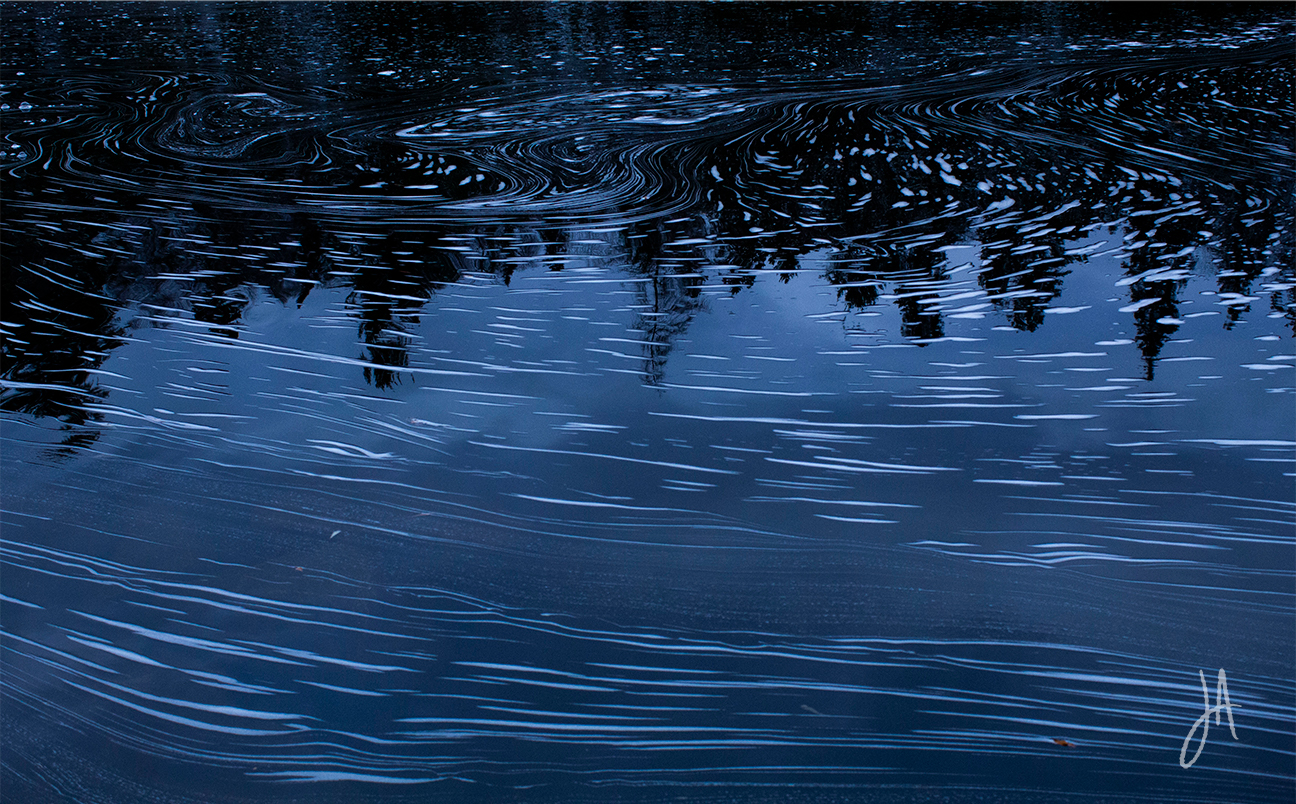
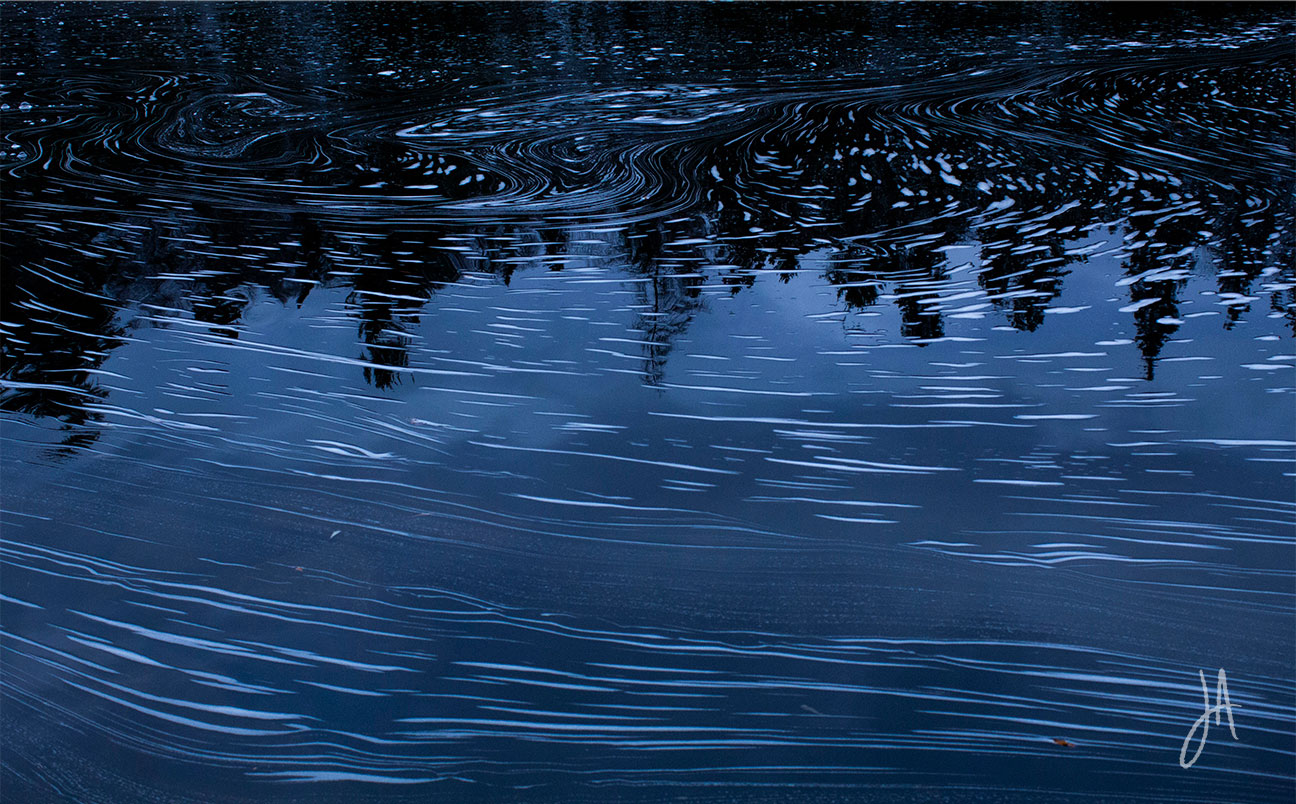
imgOptimization
optimized a bunch of imgs ... still a little slow - look into this

diff --git a/index.html b/index.html
@@ -600,7 +600,7 @@
                                     <!-- change the img..-->
                                     <div>
                                         <img class="img-fluid d-block mx-auto"
-                                            src="assets/img/portfolio/altheda/altheda.png"
+                                            src="assets/img/portfolio/altheda/altheda.jpg"
                                             alt="altheda resort landing page" />
                                     </div>
                                     <div>
@@ -684,7 +684,7 @@
                                     </div>
                                     <div>
                                         <img class="img-fluid d-block mx-auto"
-                                            src="assets/img/portfolio/altheda/moodboard.png" alt="moodboard" />
+                                            src="assets/img/portfolio/altheda/moodboard.jpg" alt="moodboard" />
                                     </div>
                                     <div>
                                         <ul class="list-inline">
@@ -775,7 +775,7 @@
                                     </div>
                                     <div>
                                         <img class="img-fluid d-block mx-auto"
-                                            src="assets/img/portfolio/killerScents/candle-mockup.png"
+                                            src="assets/img/portfolio/killerScents/candle-mockup.jpg"
                                             alt="candle on table" />
                                     </div>
                                     <div>
@@ -815,7 +815,7 @@
                                     </div>
                                     <div>
                                         <img class="img-fluid d-block mx-auto"
-                                            src="assets/img/portfolio/killerScents/magazineMockup.png"
+                                            src="assets/img/portfolio/killerScents/magazineMockup.jpg"
                                             alt="mock of magazine layout" />
                                     </div>
                                     <div>
@@ -865,7 +865,7 @@
                                     </div>
                                     <div>
                                         <img class="img-fluid d-block mx-auto"
-                                            src="assets/img/portfolio/killerScents/instaStory.png"
+                                            src="assets/img/portfolio/killerScents/instaStory.jpg"
                                             alt="instagram story" />
                                     </div>
                                     <div>
@@ -876,7 +876,7 @@
                                     <div class="row">
                                         <div class="col-6">
                                             <img class="img-fluid d-block mx-auto"
-                                                src="assets/img/portfolio/killerScents/instaPhoneMockup.png"
+                                                src="assets/img/portfolio/killerScents/instaPhoneMockup.jpg"
                                                 alt="instagram post on phone" />
                                         </div>
                                         <div class="col-6">
@@ -998,12 +998,12 @@
                                     <div class="row">
                                         <div class="col-6">
                                             <img class="img-fluid d-block mx-auto"
-                                                src="assets/img/portfolio/walleye/mailchimp1.png"
+                                                src="assets/img/portfolio/walleye/mailchimp1.jpg"
                                                 alt="mailchimp email with mug" />
                                         </div>
                                         <div class="col-6">
                                             <img class="img-fluid d-block mx-auto"
-                                                src="assets/img/portfolio/walleye/mailchimp2.png"
+                                                src="assets/img/portfolio/walleye/mailchimp2.jpg"
                                                 alt="mailchimp email with lake" />
                                         </div>
                                     </div>
@@ -1063,7 +1063,7 @@
                                         printed out.</p>
                                     <hr>
                                     <div>
-                                        <img class="img-fluid d-block mx-auto" src="assets/img/portfolio/tswizzle.png"
+                                        <img class="img-fluid d-block mx-auto" src="assets/img/portfolio/tswizzle.jpg"
                                             alt="traffic light with street signs in front of clouds" />
                                     </div>
                                     <div>
@@ -1085,7 +1085,7 @@
                                         </div>
                                         <div class="col-8">
                                             <img class="img-fluid d-block mx-auto"
-                                                src="assets/img/portfolio/prints/boof-black.png"
+                                                src="assets/img/portfolio/prints/boof-black.jpg"
                                                 alt="final design of ghost and ghost dog" />
                                         </div>
                                     </div>
@@ -1212,8 +1212,8 @@
                             <!-- add more prints!!!-->
                             
                             <div>
-                                <img class="img-fluid d-block mx-auto" src="assets/img/portfolio/prints/burntOut.png"
-                                    alt="traffic light with street signs in front of clouds" />
+                                <img class="img-fluid d-block mx-auto" src="assets/img/portfolio/prints/burntOut.jpg"
+                                    alt="burnt out with planet ring 'of this world'" />
                             </div>
                             <div>
                                 <ul class="list-inline">
@@ -1286,7 +1286,7 @@
                                         then had my actor pose into deeply emotional poses.</p>
                                     <div>
                                         <img class="img-fluid d-block mx-auto"
-                                            src="assets/img/portfolio/gallery/_MG_9908_1.jpg"
+                                            src="assets/img/portfolio/gallery/nanabijou.jpg"
                                             alt="sleeping giant - nanbijou" />
                                     </div>
                                     <p class="text-muted">Nanabijou - The Sleeping Giant </p>
@@ -1819,11 +1819,11 @@
                                         <div class="row">
                                           <div class="col-6">
                                             <img class="img-fluid d-block mx-auto"
-                                            src="assets/img/portfolio/socialMedia/DistanceEducationScavengerHunt.png" alt="scavenger hunt page 1" />
+                                            src="assets/img/portfolio/socialMedia/DistanceEducationScavengerHunt.jpg" alt="scavenger hunt page 1" />
                                           </div>
                                           <div class="col-6">
                                             <img class="img-fluid d-block mx-auto"
-                                            src="assets/img/portfolio/socialMedia/DistanceEducationScavengerHunt2.png" alt="scavenger hunt page 2" />
+                                            src="assets/img/portfolio/socialMedia/DistanceEducationScavengerHunt2.jpg" alt="scavenger hunt page 2" />
                                           </div>
                                         </div>
                                       </div>
